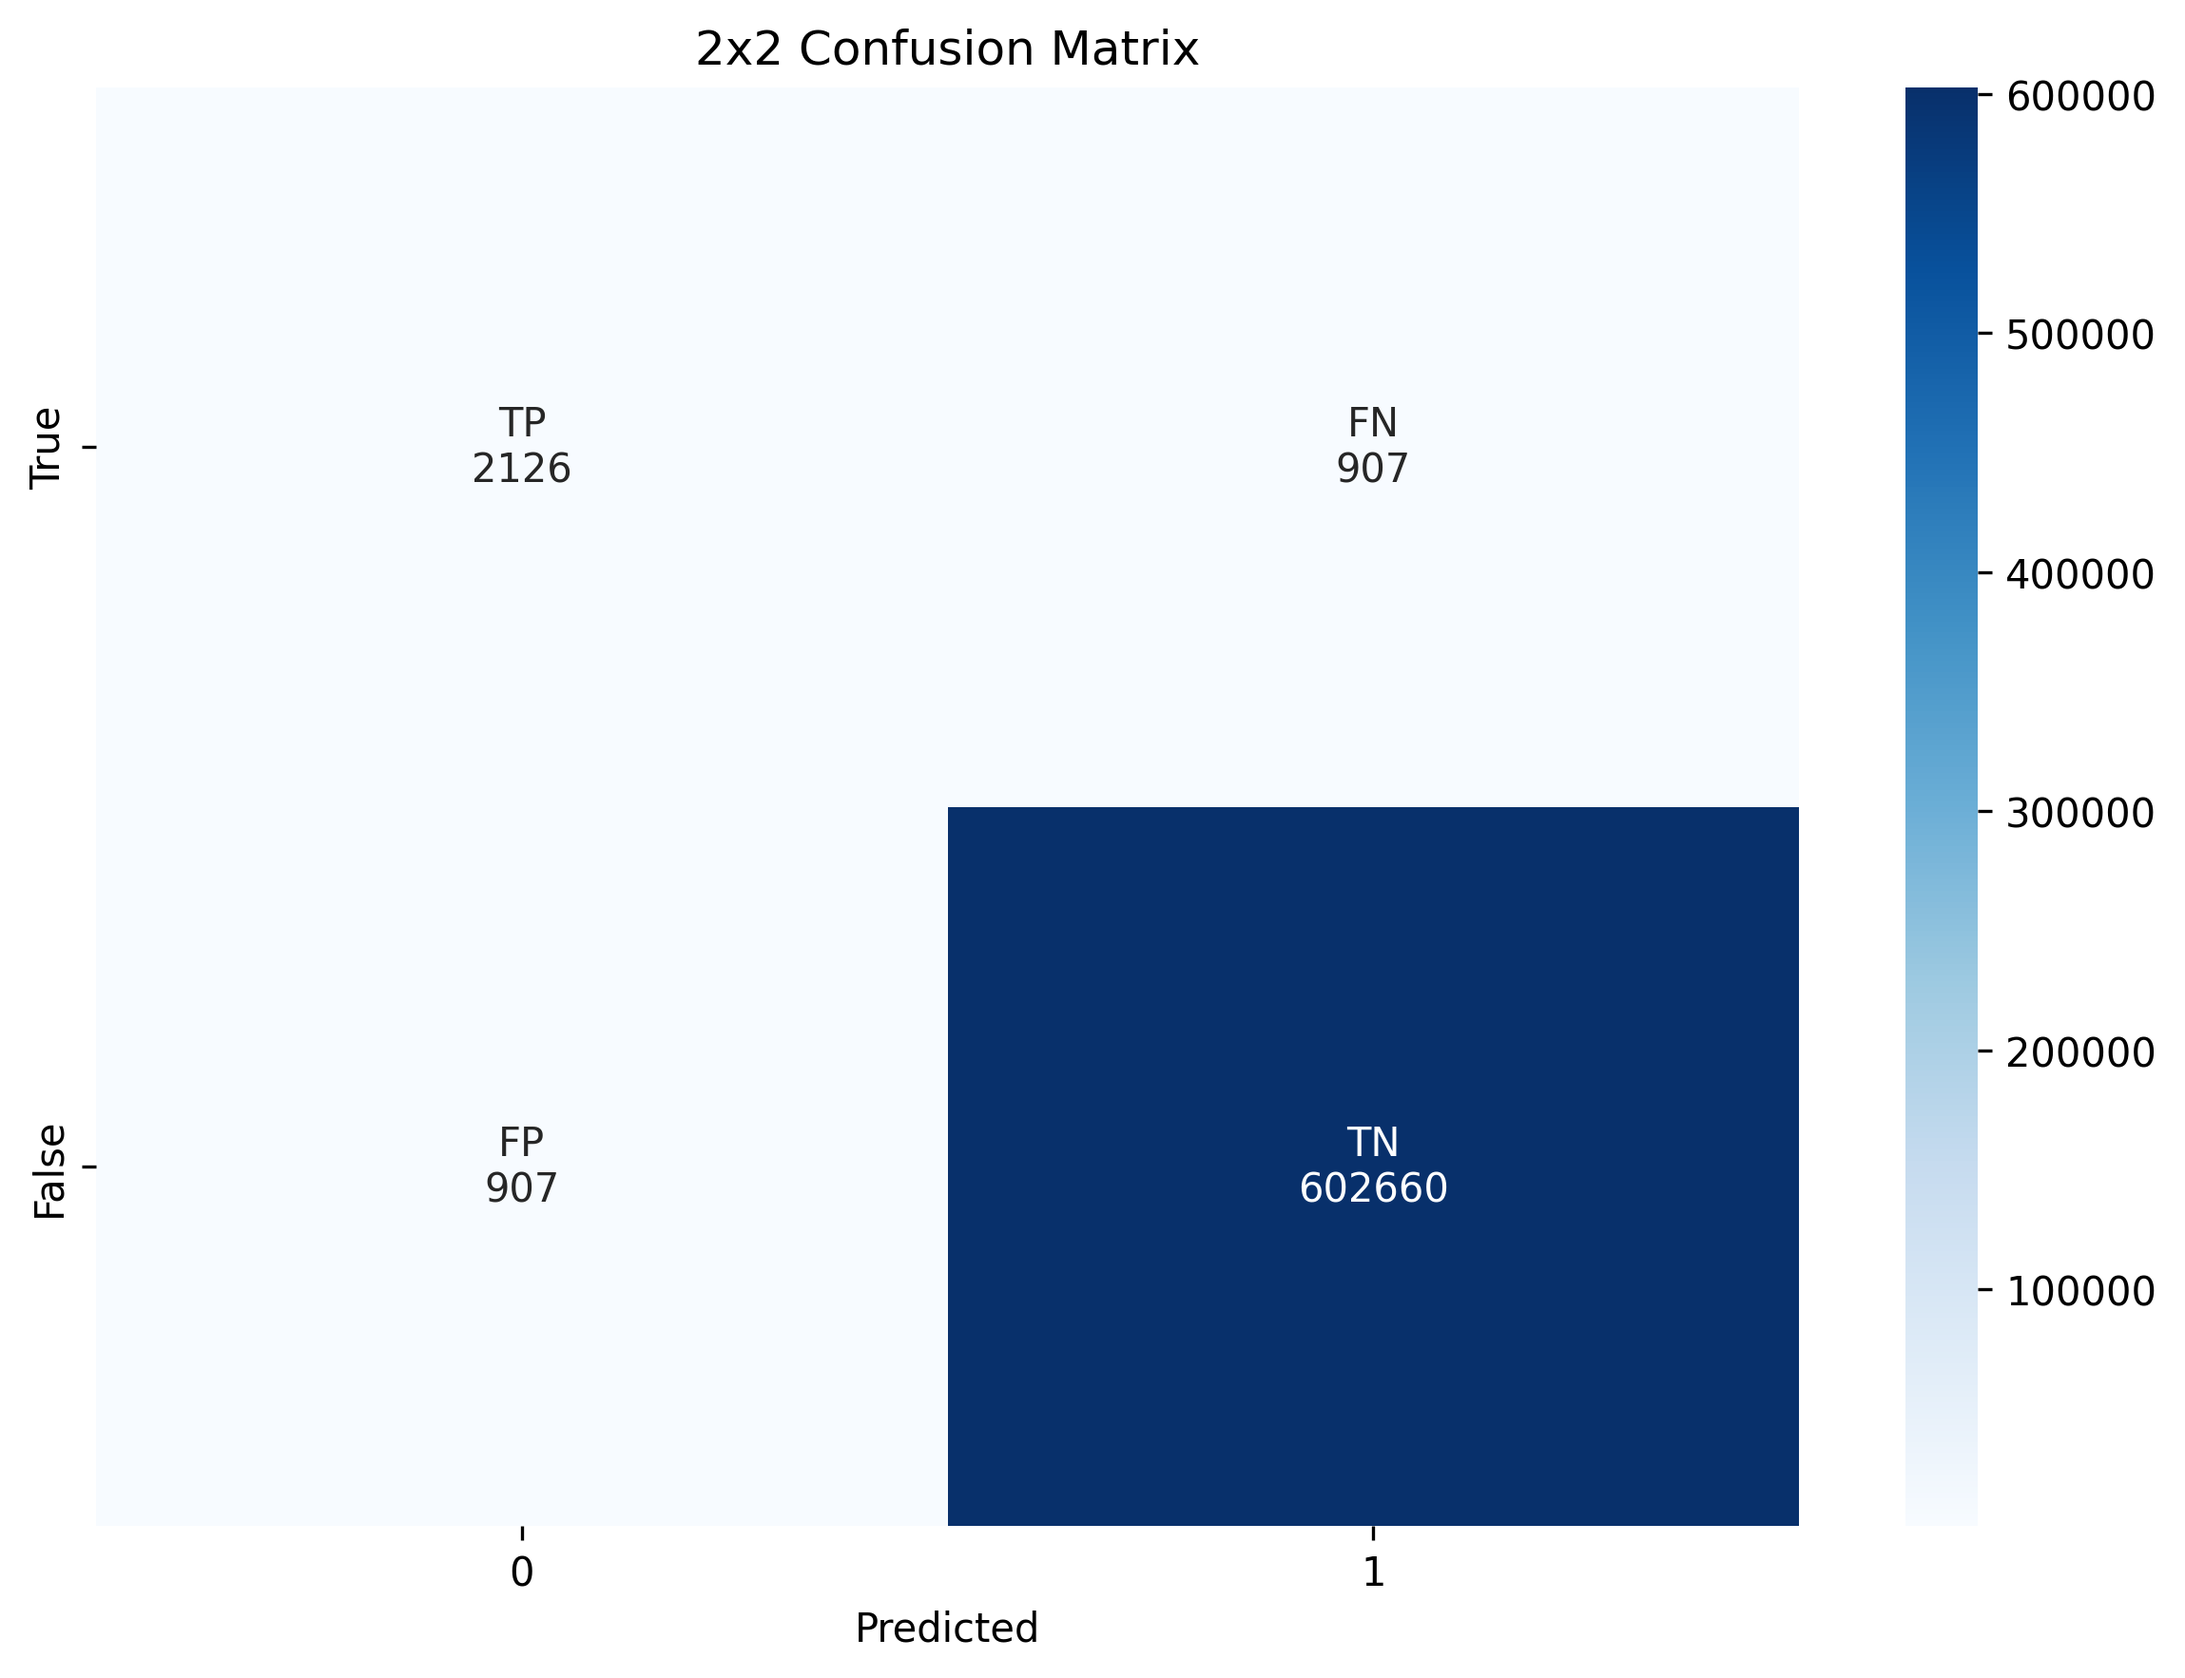
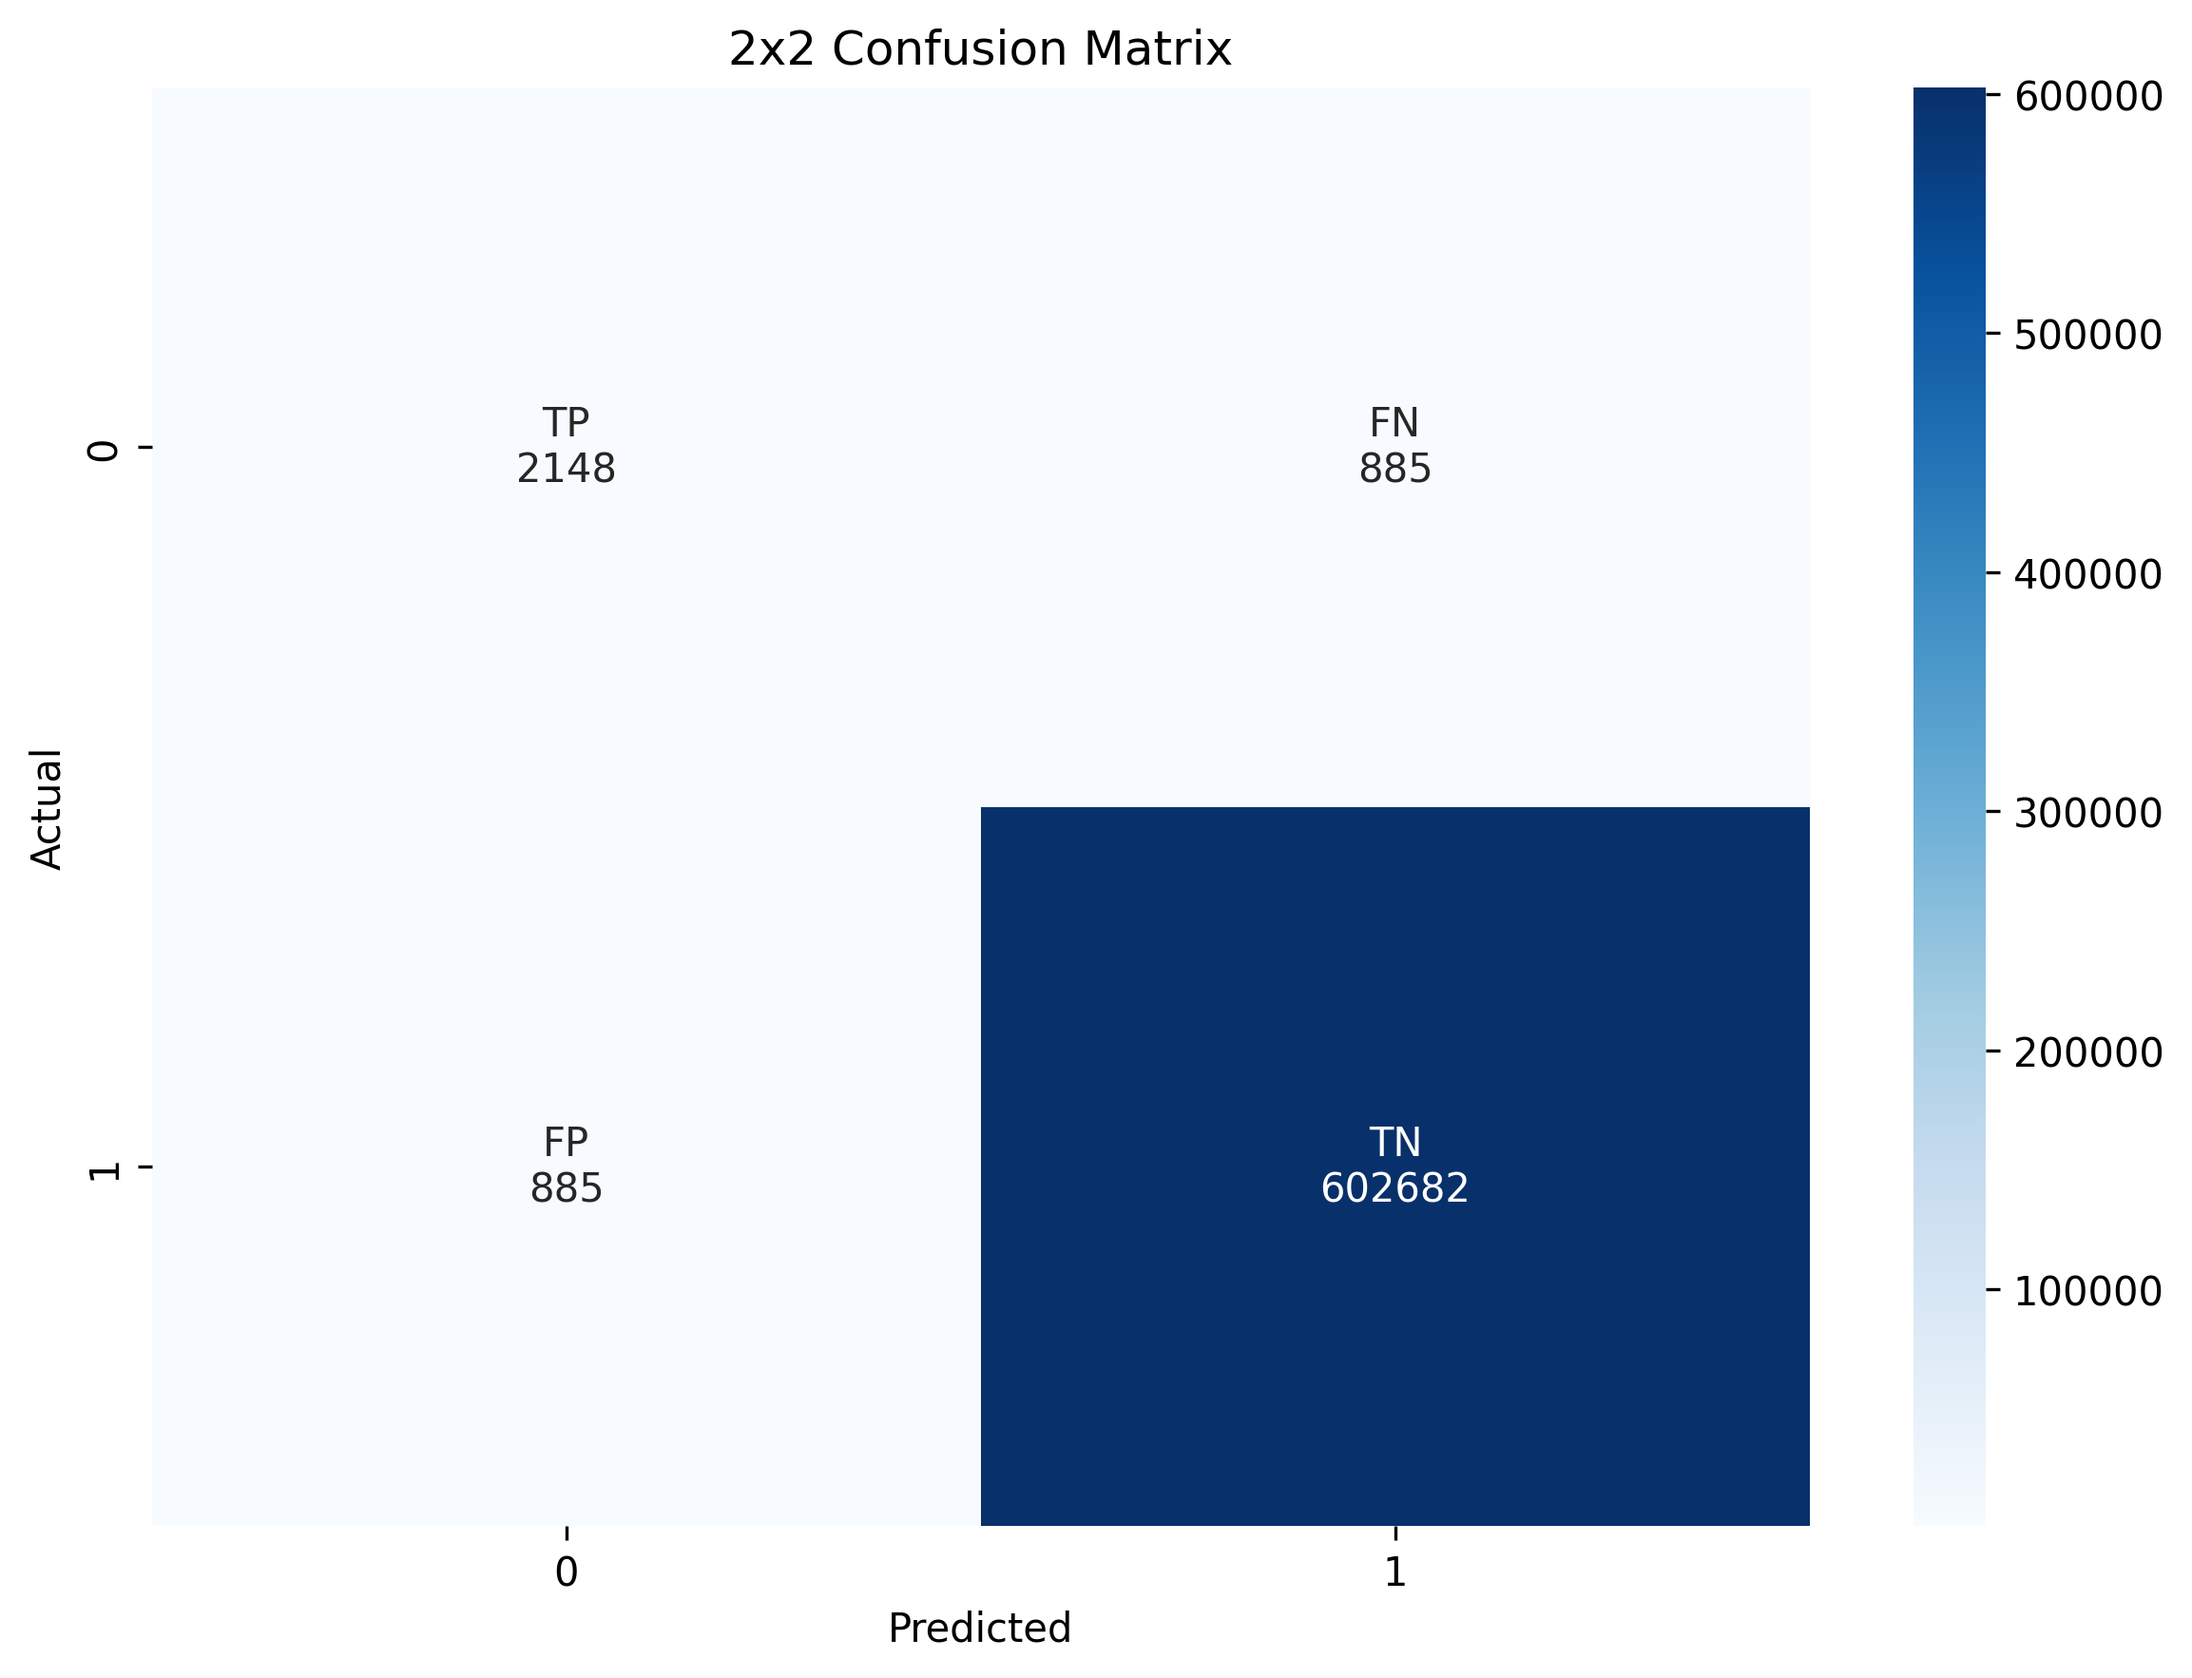
Upload images to readme

diff --git a/test_resnet.py b/test_resnet.py
@@ -152,7 +152,7 @@ def main(config):
     test_loader = DataLoader(test_dataset, batch_size=config['batch_size'], shuffle=False, num_workers=4)
 
     model = create_model()
-    model.load_state_dict(torch.load('resnet152_caltech200_72.pth', map_location=device))
+    model.load_state_dict(torch.load('final_resnet152_caltech200_72.pth', map_location=device))
     model = model.to(device)
     model.eval()
 
@@ -174,6 +174,7 @@ def main(config):
     print("Confusion matrix saved as 'confusion_matrix.png'")
 
     # Calculate 2x2 confusion matrix
+    import pdb; pdb.set_trace()
     tp = np.sum(np.diag(cm))
     fn = np.sum(cm) - tp
     fp = fn  # In a multiclass setting, FP = FN

diff --git a/README.md b/README.md
@@ -1,1 +1,15 @@
 # caltech_birds
+
+**Confusion Matrix**
+
+![Features Image] (2x2_confusion_matrix.png)
+
+
+**Multi Class Confusion Matrix**
+
+![Features Image] (confusion_matrix.png)
+
+
+**MisClassified Examples**
+
+![Features Image] (misclassified_example.png)
